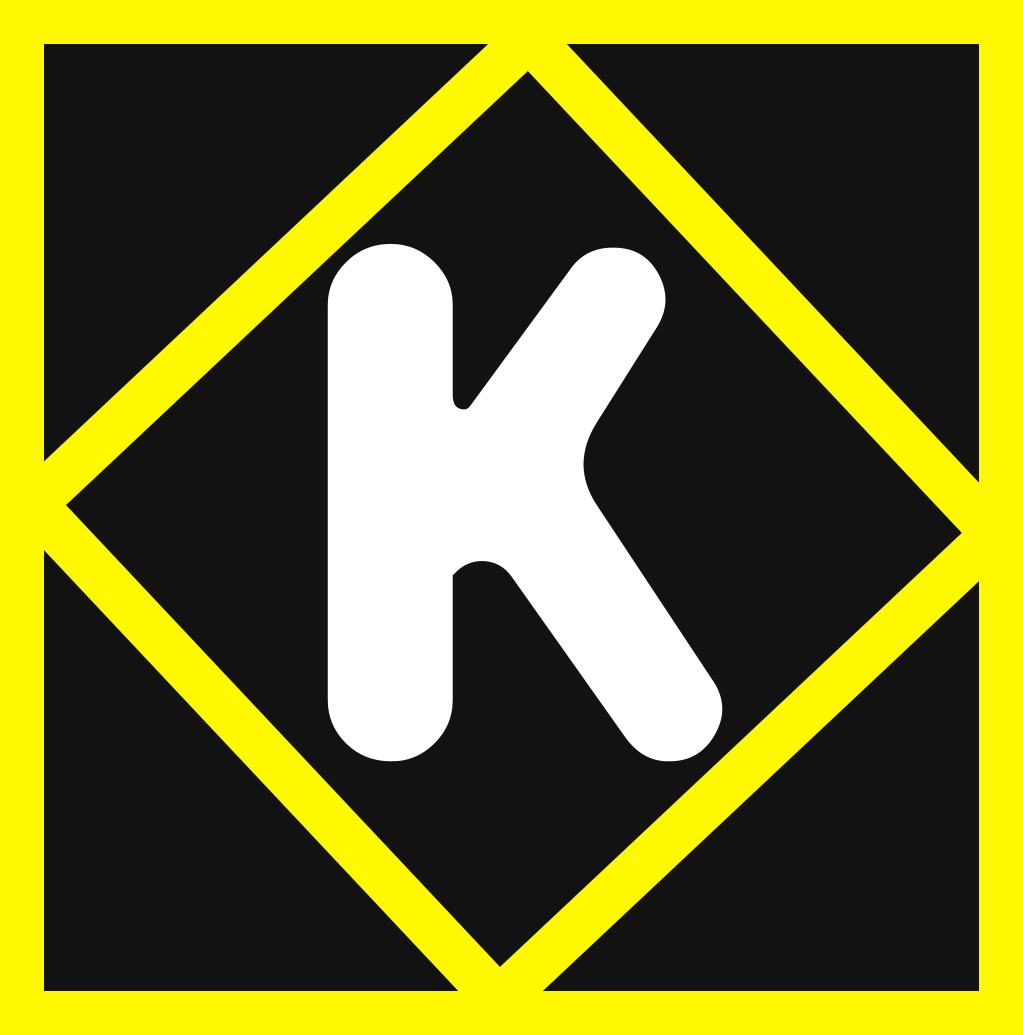
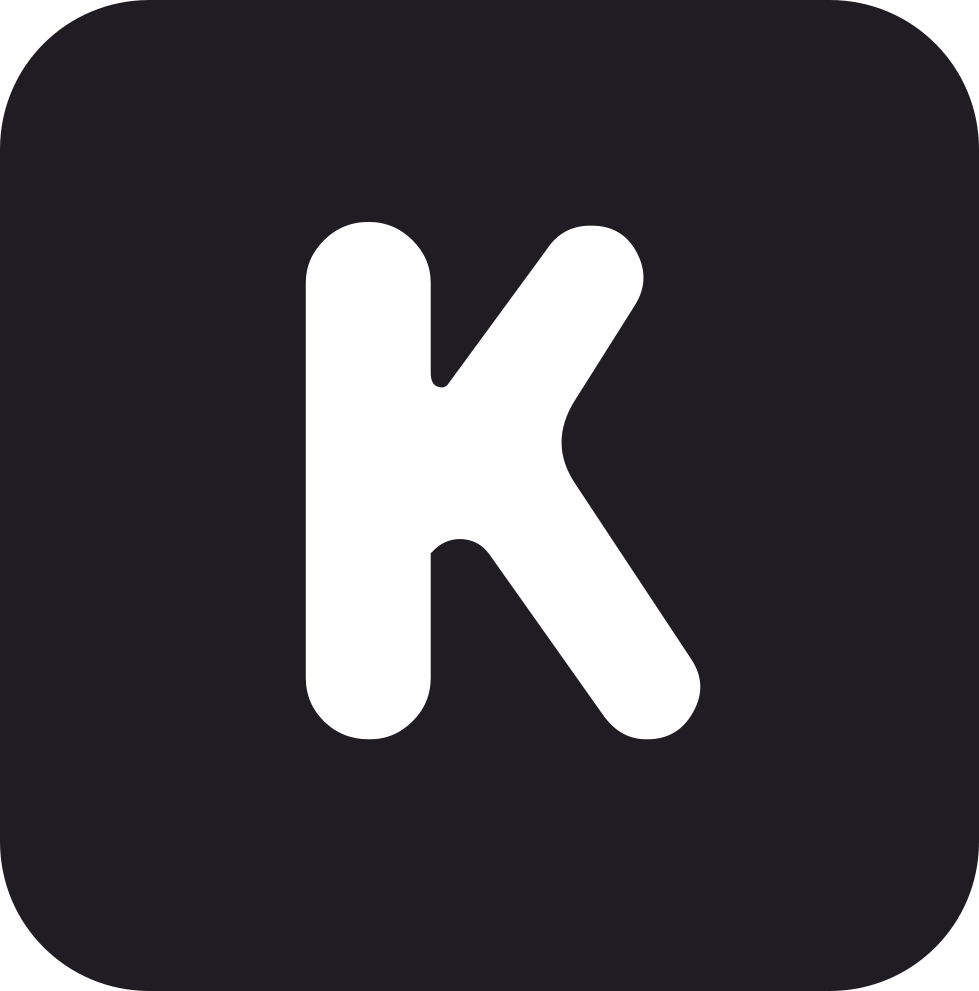
continuous integration strategy

diff --git a/src/style/tailwind.css b/src/style/tailwind.css
@@ -439,7 +439,7 @@ Ensure the default browser behavior of the `hidden` attribute.
   border-color: rgb(229 231 235 / var(--tw-border-opacity));
 }
 
-.shadow-2xl, .shadow, .shadow-xl {
+.shadow-2xl, .shadow, .shadow-xl, .shadow-lg {
   --tw-ring-offset-shadow: 0 0 #0000;
   --tw-ring-shadow: 0 0 #0000;
   --tw-shadow: 0 0 #0000;
@@ -660,10 +660,6 @@ Ensure the default browser behavior of the `hidden` attribute.
   max-height: 900px;
 }
 
-.min-h-screen {
-  min-height: 100vh;
-}
-
 .min-h-\[250px\] {
   min-height: 250px;
 }
@@ -844,9 +840,8 @@ Ensure the default browser behavior of the `hidden` attribute.
   border-color: rgb(239 68 68 / var(--tw-border-opacity));
 }
 
-.bg-slate-900 {
-  --tw-bg-opacity: 1;
-  background-color: rgb(15 23 42 / var(--tw-bg-opacity));
+.bg-cover {
+  background-color: rgb(0 0 0 / 95%);
 }
 
 .bg-slate-800 {
@@ -869,9 +864,9 @@ Ensure the default browser behavior of the `hidden` attribute.
   background-color: rgb(37 99 235 / var(--tw-bg-opacity));
 }
 
-.bg-green-600 {
+.bg-slate-900 {
   --tw-bg-opacity: 1;
-  background-color: rgb(22 163 74 / var(--tw-bg-opacity));
+  background-color: rgb(15 23 42 / var(--tw-bg-opacity));
 }
 
 .bg-blue-50 {
@@ -879,32 +874,12 @@ Ensure the default browser behavior of the `hidden` attribute.
   background-color: rgb(239 246 255 / var(--tw-bg-opacity));
 }
 
-.bg-cover {
-  background-color: rgb(0 0 0 / 95%);
+.bg-gradient-to-tl {
+  background-image: linear-gradient(to top left, var(--tw-gradient-stops));
 }
 
-.bg-zinc-900 {
-  --tw-bg-opacity: 1;
-  background-color: rgb(24 24 27 / var(--tw-bg-opacity));
-}
-
-.bg-gray-900 {
-  --tw-bg-opacity: 1;
-  background-color: rgb(17 24 39 / var(--tw-bg-opacity));
-}
-
-.bg-neutral-900 {
-  --tw-bg-opacity: 1;
-  background-color: rgb(23 23 23 / var(--tw-bg-opacity));
-}
-
-.bg-stone-900 {
-  --tw-bg-opacity: 1;
-  background-color: rgb(28 25 23 / var(--tw-bg-opacity));
-}
-
-.bg-gradient-to-b {
-  background-image: linear-gradient(to bottom, var(--tw-gradient-stops));
+.bg-gradient-to-bl {
+  background-image: linear-gradient(to bottom left, var(--tw-gradient-stops));
 }
 
 .from-black {
@@ -912,12 +887,30 @@ Ensure the default browser behavior of the `hidden` attribute.
   --tw-gradient-stops: var(--tw-gradient-from), var(--tw-gradient-to, rgb(0 0 0 / 0));
 }
 
+.from-slate-900 {
+  --tw-gradient-from: #0f172a;
+  --tw-gradient-stops: var(--tw-gradient-from), var(--tw-gradient-to, rgb(15 23 42 / 0));
+}
+
+.from-cover {
+  --tw-gradient-from: rgb(0 0 0 / 95%);
+  --tw-gradient-stops: var(--tw-gradient-from), var(--tw-gradient-to, rgb(0 0 0 / 0));
+}
+
 .via-slate-900 {
   --tw-gradient-stops: var(--tw-gradient-from), #0f172a, var(--tw-gradient-to, rgb(15 23 42 / 0));
 }
 
+.via-blue-600 {
+  --tw-gradient-stops: var(--tw-gradient-from), #2563eb, var(--tw-gradient-to, rgb(37 99 235 / 0));
+}
+
 .to-black {
   --tw-gradient-to: #000;
+}
+
+.to-purple-700 {
+  --tw-gradient-to: #7e22ce;
 }
 
 .bg-cover {
@@ -1091,8 +1084,19 @@ Ensure the default browser behavior of the `hidden` attribute.
   box-shadow: var(--tw-ring-offset-shadow, 0 0 #0000), var(--tw-ring-shadow, 0 0 #0000), var(--tw-shadow);
 }
 
+.shadow-lg {
+  --tw-shadow: 0 10px 15px -3px rgb(0 0 0 / 0.1), 0 4px 6px -4px rgb(0 0 0 / 0.1);
+  --tw-shadow-colored: 0 10px 15px -3px var(--tw-shadow-color), 0 4px 6px -4px var(--tw-shadow-color);
+  box-shadow: var(--tw-ring-offset-shadow, 0 0 #0000), var(--tw-ring-shadow, 0 0 #0000), var(--tw-shadow);
+}
+
 .shadow-black {
   --tw-shadow-color: #000;
+  --tw-shadow: var(--tw-shadow-colored);
+}
+
+.shadow-zinc-800 {
+  --tw-shadow-color: #27272a;
   --tw-shadow: var(--tw-shadow-colored);
 }
 

diff --git a/src/components/svg/PageIcon.tsx b/src/components/svg/PageIcon.tsx
@@ -1,26 +1,23 @@
-import React from "react"
+import React from "react";
 
 interface Props extends React.SVGProps<SVGSVGElement> {
-  textClass?: string
+  textClass?: string;
 }
 const PageIcon: React.FC<Props> = ({ href, textClass, ...props }) => {
   return (
     <svg {...props} width="512" height="512" viewBox="0 0 512 512" fill="none">
       <path
-        d="M5.76526 4.93848V15.4946V501.437H496.484V4.93848H5.76526ZM26.8627 26.0433H475.386V480.332H26.8627V26.0433Z"
-        fill="#FEF900"
+        d="M414.315 18.4913H87.9335C48.3798 18.4913 16.3153 50.5558 16.3153 90.1094V422.267C16.3153 461.821 48.3798 493.885 87.9335 493.885H414.315C453.869 493.885 485.933 461.821 485.933 422.267V90.1094C485.933 50.5558 453.869 18.4913 414.315 18.4913Z"
+        fill="#1F1C24"
+        // style={{fill: "var(--bg-color)"}}
       />
       <path
-        d="M257.108 14.6319L249.086 22.1692L8.25543 248.464L242.087 497.316L490.939 263.484L257.108 14.6319ZM256.139 45.7497L459.821 262.516L243.055 466.198L39.3733 249.432L256.139 45.7497Z"
-        fill="#FEF900"
-      />
-
-      <path
-        style={{fill: "var(--color)"}}
-        d="M334.885 370.395C334.885 370.395 334.619 370.395 334.088 370.395C325.985 370.395 319.21 366.542 313.763 358.838L259.564 281.325C256.243 276.543 251.727 274.019 246.014 273.753C240.435 273.62 235.719 275.812 231.867 280.329H231.468V340.705C231.468 348.941 228.546 355.982 222.701 361.827C216.856 367.672 209.948 370.528 201.978 370.395H201.778C193.542 370.395 186.502 367.539 180.657 361.827C174.812 355.982 171.889 348.941 171.889 340.705V150.211C171.889 142.241 174.812 135.333 180.657 129.488C186.502 123.643 193.542 120.721 201.778 120.721H201.978C209.948 120.721 216.856 123.643 222.701 129.488C228.546 135.333 231.468 142.241 231.468 150.211V193.451C231.468 197.303 232.597 199.562 234.856 200.226C236.981 201.023 238.642 200.558 239.837 198.831L286.863 133.872C291.778 126.3 298.686 122.514 307.586 122.514H308.184C318.014 122.514 325.187 126.831 329.704 135.466C334.221 144.101 333.955 152.536 328.907 160.772L300.213 206.801C291.712 220.484 291.712 233.834 300.213 246.853L355.807 331.937C361.121 340.174 361.387 348.609 356.604 357.244C351.822 366.011 344.582 370.395 334.885 370.395Z"
+        d="M333.885 363.395C333.885 363.395 333.619 363.395 333.088 363.395C324.985 363.395 318.21 359.542 312.763 351.838L258.564 274.325C255.243 269.543 250.727 267.019 245.014 266.753C239.435 266.62 234.719 268.812 230.867 273.329H230.468V333.705C230.468 341.941 227.546 348.982 221.701 354.827C215.856 360.672 208.948 363.528 200.978 363.395H200.778C192.542 363.395 185.502 360.539 179.657 354.827C173.812 348.982 170.889 341.941 170.889 333.705V143.211C170.889 135.241 173.812 128.333 179.657 122.488C185.502 116.643 192.542 113.721 200.778 113.721H200.978C208.948 113.721 215.856 116.643 221.701 122.488C227.546 128.333 230.468 135.241 230.468 143.211V186.451C230.468 190.303 231.597 192.562 233.856 193.226C235.981 194.023 237.642 193.558 238.837 191.831L285.863 126.872C290.778 119.3 297.686 115.514 306.586 115.514H307.184C317.014 115.514 324.187 119.831 328.704 128.466C333.221 137.101 332.955 145.536 327.907 153.772L299.213 199.801C290.712 213.484 290.712 226.834 299.213 239.853L354.807 324.937C360.121 333.174 360.387 341.609 355.604 350.244C350.822 359.011 343.582 363.395 333.885 363.395Z"
+        // style={{fill: "var(--color)"}}
+        fill="white"
       />
     </svg>
-  )
-}
+  );
+};
 
-export default PageIcon
+export default PageIcon;

diff --git a/src/pages/index.tsx b/src/pages/index.tsx
@@ -145,7 +145,7 @@ const Page = ({ data }) => {
         </div>
       </PageSection>
       <PageSection
-        className="bg-gradient-to-b  from-black via-slate-900 to-black flex"
+        className=" bg-cover flex"
         index={3}
         id="Work"
         theme="blue"
@@ -166,7 +166,7 @@ const Page = ({ data }) => {
       </PageSection>
 
       <PageSection
-        theme="black"
+        theme="white"
         className="flex justify-center align-center "
         index={4}
         id="Contact"

diff --git a/src/components/BuildingBlocks/ShowProject.tsx b/src/components/BuildingBlocks/ShowProject.tsx
@@ -6,7 +6,7 @@ const ShowProject = ({ project, right }) => {
 
   return (
     <div className="grid sm:grid-cols-2 grid-cols-1 gap-x-12 place-items-center my-12">
-      <div className="relative rounded-md overflow-hidden w-full shadow-xl shadow-black">
+      <div className="relative rounded-md overflow-hidden w-full shadow-2xl  shadow-black">
         <GatsbyImage
           className=""
           image={project.previewImage?.gatsbyImageData}

diff --git a/src/components/Layout/index.tsx b/src/components/Layout/index.tsx
@@ -82,7 +82,7 @@ const Layout = ({ children }) => {
       <main className=" leading-loose" data-cy="main">
         {children}
       </main>
-      <footer className="bg-green-600 text-white">
+      <footer className="bg-cover text-white">
         <p className="lm-size flex justify-center py-2 ">
           Copyright 2021, created by Daniel kodoh
         </p>

diff --git a/src/components/Layout/style.module.scss b/src/components/Layout/style.module.scss
@@ -44,6 +44,7 @@
 
 .blue {
   --color: white;
-  --bg-color: hsl(222, 48%, 5%) ;
-  --bar-bg-color:  hsl(222, 48%, 7%);
+  --bg-color: hsl(0, 0%, 5%);
+  --bar-bg-color: hsl(0, 0%, 10%);
+  --burger-bg-color: rgb(206, 195, 195);
 }
